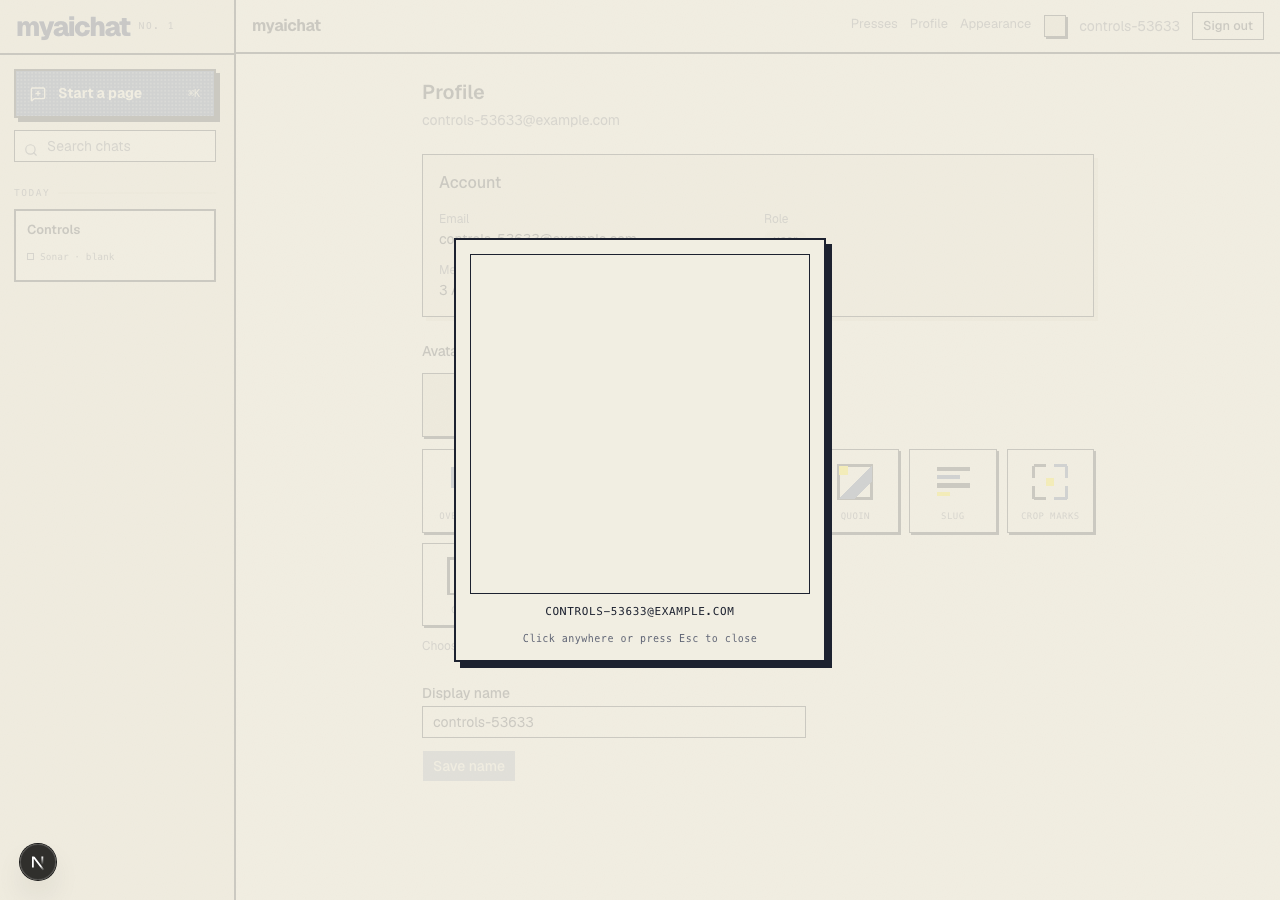
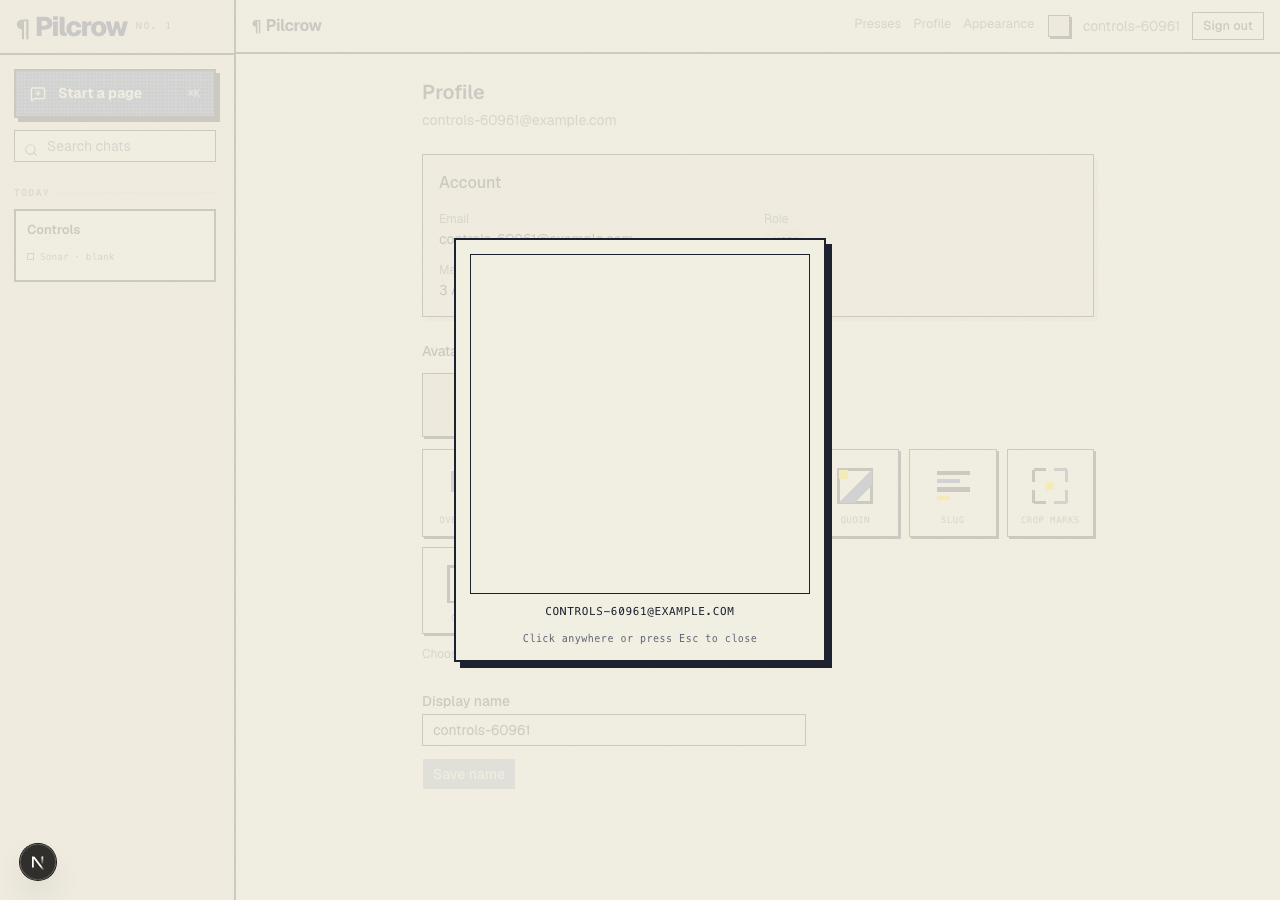
feat: rename the product to Pilcrow, user-visible only
Wordmark, masthead, sidebar lockup, login page, page titles, metadata and OG
tags, email subjects and copy, README. "No. 5" now sits under "¶ Pilcrow".

The mark and the wordmark are deliberately two things. ¶ is the MARK — the
favicon, and the logo wherever one sits — and "Pilcrow" is the WORDMARK, which
stays the clean word. The P is never replaced by the glyph: that would make the
mark and the word the same object and leave the product with no standalone
symbol. The sidebar sets them tight as one lockup; the chat rail carries the
glyph alone, because the wordmark is already set two inches away in the sidebar
and repeating it would be the name twice on one line.

The favicon is drawn as geometry rather than set as <text>: a text favicon
depends on a font the browser chrome may not have and silently falls back,
which for a mark that IS one glyph means the logo is simply wrong.

NOT touched, per the stated scope: the Railway service name, the deployed URL
and its fallback, NEXT_PUBLIC_APP_URL, the keepalive APP_URL, supabase
project_id, package name, repo paths, the smoke-test base URL, the logging test
path fixture and the security-audit email regex. Ambiguous strings are listed
in the PR rather than changed — the idle-cookie name, the weak-password
denylist entry and their two test fixtures, and CONTRIBUTING's clone URL.

## Three defects this turned up, none of them the rename

- The ¶ was coloured `--accent-alt`, which is the second ink as a FILL. It
[…]

diff --git a/app/press.css b/app/press.css
@@ -130,6 +130,81 @@ aside {
   white-space: nowrap;
 }
 
+/* ── the lockup ──────────────────────────────────────────────────────────────
+   The mark and the wordmark are two different things and the distinction is
+   the whole identity: ¶ is the MARK — it stands alone on the favicon and
+   wherever a logo sits — and "Pilcrow" is the WORDMARK, which stays the clean
+   word. The P is never replaced by the glyph; that would make the mark and the
+   word the same object and leave the product with no standalone symbol.
+
+   Set tight (0.28em) so the pair reads as one unit rather than as a bullet in
+   front of a heading. The glyph is `aria-hidden` at every call site — spoken,
+   it is the name said twice. */
+[data-press='lockup'] {
+  display: inline-flex;
+  align-items: baseline;
+  gap: 0.28em;
+  min-width: 0;
+  text-decoration: none;
+}
+/* In the app header the lockup is body-sized; in the press masthead it takes
+   the wordmark's size. Declared on the lockup so the mark always tracks the
+   word beside it rather than being set twice. */
+[data-press='masthead'] [data-press='mark'] {
+  font-size: 24px;
+}
+[data-press='mark'] {
+  font-family: var(--press-mono);
+  font-weight: 700;
+  line-height: 1;
+  /*
+   * `--display`, for the same reason as the rail mark — and worth stating that
+   * NO test caught this one. It is `aria-hidden`, so the contrast checker skips
+   * it as decorative, and it would have shipped as a near-invisible yellow
+   * glyph in Riso while every suite stayed green.
+   */
+  color: var(--display, var(--foreground));
+  /* Optical, not metric: the pilcrow's bowl sits high in the em box, so
+     matching the wordmark's cap height means nudging it down a hair. */
+  transform: translateY(0.04em);
+}
+
+/* The mark standing alone in the chat rail, where there is no wordmark. Sized
+   to the folio beside it and set in the second ink, so it reads as the logo
+   rather than as punctuation that wandered into the navigation. */
+[data-press='rail-mark'] {
+  font-family: var(--press-mono);
+  font-weight: 700;
+  /*
+   * 19px, and bold, so this is LARGE TEXT under WCAG 1.4.3 (>=18.66px at
+   * weight 700) and answers to 3:1 rather than 4.5:1 — which is the bar
+   * `--display` is held to.
+   *
+   * At 17px it needed 4.5:1 and measured 1.08:1 in Riso. That was my mistake
+   * and the design system had already named it: `--accent-alt` is the second
+   * ink as a FILL, `--display` is the second ink as TYPE, and the comment on
+   * the token says in as many words that "a colour that works as a filled chip
+   * is often unusable as text on the paper — Riso's yellow pill is the obvious
+   * case". I used the fill role for a glyph.
+   */
+  font-size: 19px;
+  line-height: 1;
+  color: var(--display, var(--foreground));
+  text-decoration: none;
+  flex-shrink: 0;
+  /* 24px minimum: it is a link, and WCAG 2.5.8 does not care that it is small.
+     The same oversight shipped a 22x22 portrait button to production. */
+  min-width: 24px;
+  min-height: 24px;
+  display: inline-flex;
+  align-items: center;
+  justify-content: center;
+}
+[data-press='rail-mark']:focus-visible {
+  outline: 2px solid var(--ring);
+  outline-offset: 2px;
+}
+
 /* The registration moment: a second plate that slides into alignment, the way
    a two-colour print does when the paper is fed slightly off. It runs once, on
    load, and is the only animation this theme adds. */

diff --git a/emails/templates.tsx b/emails/templates.tsx
@@ -79,7 +79,7 @@ function Shell({ preview, heading, children }: ShellProps) {
             className="email-text"
             style={{ color: TEXT, fontSize: '18px', fontWeight: 700, margin: '0 0 24px' }}
           >
-            myaichat
+            Pilcrow
           </Text>
 
           <Heading
@@ -138,9 +138,9 @@ function FallbackLink({ href }: { href: string }) {
 
 export function WelcomeEmail({ confirmUrl }: { confirmUrl: string }) {
   return (
-    <Shell preview="Confirm your myaichat account" heading="Confirm your email">
+    <Shell preview="Confirm your Pilcrow account" heading="Confirm your email">
       <Text className="email-text" style={{ color: TEXT, fontSize: '14px', margin: 0 }}>
-        Welcome to myaichat. Confirm your address and you can start chatting.
+        Welcome to Pilcrow. Confirm your address and you can start chatting.
       </Text>
       <ActionButton href={confirmUrl} label="Confirm email" />
       <FallbackLink href={confirmUrl} />
@@ -150,7 +150,7 @@ export function WelcomeEmail({ confirmUrl }: { confirmUrl: string }) {
 
 export function PasswordResetEmail({ resetUrl }: { resetUrl: string }) {
   return (
-    <Shell preview="Reset your myaichat password" heading="Reset your password">
+    <Shell preview="Reset your Pilcrow password" heading="Reset your password">
       <Text className="email-text" style={{ color: TEXT, fontSize: '14px', margin: 0 }}>
         Use the button below to choose a new password. The link expires in one hour.
       </Text>
@@ -162,7 +162,7 @@ export function PasswordResetEmail({ resetUrl }: { resetUrl: string }) {
 
 export function MagicLinkEmail({ magicUrl }: { magicUrl: string }) {
   return (
-    <Shell preview="Your myaichat sign-in link" heading="Sign in to myaichat">
+    <Shell preview="Your Pilcrow sign-in link" heading="Sign in to Pilcrow">
       <Text className="email-text" style={{ color: TEXT, fontSize: '14px', margin: 0 }}>
         Click below to sign in. The link works once and expires shortly.
       </Text>
@@ -223,7 +223,7 @@ export function NewLoginEmail({
   userAgent: string;
 }) {
   return (
-    <Shell preview="New sign-in to your myaichat admin account" heading="New sign-in">
+    <Shell preview="New sign-in to your Pilcrow admin account" heading="New sign-in">
       <Text className="email-text" style={{ color: TEXT, fontSize: '14px', margin: '0 0 12px' }}>
         Your <strong>administrator</strong> account was used to sign in from a device we have not
         seen before.

diff --git a/scripts/verify-costs.ts b/scripts/verify-costs.ts
@@ -351,6 +351,48 @@ async function main() {
       // older answer to be about.
       await turn(owner.cookie, shown!.id, 'Reply with exactly: AGAIN');
 
+      /**
+       * Wait for the PRICES, not for the streams.
+       *
+       * `turn()` returns when the response body ends, but the cost is written
+       * after that — the assistant message is inserted, then its `usage_logs`
+       * row. Loading the page in between shows an answer with no price and so
+       * no comparison toggle, and the check below reports "1 toggle(s)" as
+       * though the feature were broken.
+       *
+       * It passed on a quiet machine and failed inside the full suite, which is
+       * the signature of a race rather than a defect. Polling stored state is
+       * the fix; a longer sleep would only move the failure.
+       */
+      /*
+       * Two queries rather than a `usage_logs(id)` embed: that relationship is
+       * not declared in types.ts, and declaring one purely to let a test phrase
+       * a join more tersely is the wrong direction — the types file describes
+       * the embeds the app uses.
+       */
+      const priced = async () => {
+        const { data: answers } = await admin
+          .from('messages')
+          .select('id')
+          .eq('conversation_id', shown!.id)
+          .eq('role', 'assistant');
+        const ids = (answers ?? []).map((m) => m.id);
+        if (ids.length === 0) return 0;
+        const { data: rows } = await admin
+          .from('usage_logs')
+          .select('message_id')
+          .in('message_id', ids);
+        return new Set((rows ?? []).map((r) => r.message_id)).size;
+      };
+      for (let i = 0; i < 40 && (await priced()) < 2; i++) {
+        await new Promise((r) => setTimeout(r, 500));
+      }
+      check(
+        'both answers were priced before the page was read',
+        (await priced()) >= 2,
+        `${await priced()} priced`,
+      );
+
       await page.goto(`${BASE_URL}/c/${shown!.id}`, { waitUntil: 'networkidle' });
 
       const stamp = page.locator('[data-press="answer-cost"]').first();

diff --git a/lib/email/send.ts b/lib/email/send.ts
@@ -67,17 +67,17 @@ async function deliver(to: string, subject: string, html: string): Promise<Email
 
 export async function sendWelcomeEmail(to: string, confirmUrl: string): Promise<EmailResult> {
   const html = await render(WelcomeEmail({ confirmUrl }));
-  return deliver(to, 'Confirm your myaichat account', html);
+  return deliver(to, 'Confirm your Pilcrow account', html);
 }
 
 export async function sendPasswordResetEmail(to: string, resetUrl: string): Promise<EmailResult> {
   const html = await render(PasswordResetEmail({ resetUrl }));
-  return deliver(to, 'Reset your myaichat password', html);
+  return deliver(to, 'Reset your Pilcrow password', html);
 }
 
 export async function sendMagicLinkEmail(to: string, magicUrl: string): Promise<EmailResult> {
   const html = await render(MagicLinkEmail({ magicUrl }));
-  return deliver(to, 'Your myaichat sign-in link', html);
+  return deliver(to, 'Your Pilcrow sign-in link', html);
 }
 
 export async function sendNewLoginEmail(
@@ -85,7 +85,7 @@ export async function sendNewLoginEmail(
   context: { when: string; ip: string; userAgent: string },
 ): Promise<EmailResult> {
   const html = await render(NewLoginEmail(context));
-  return deliver(to, 'New sign-in to your myaichat admin account', html);
+  return deliver(to, 'New sign-in to your Pilcrow admin account', html);
 }
 
 export async function sendAdminAlertEmail(
@@ -96,5 +96,5 @@ export async function sendAdminAlertEmail(
   const html = await render(
     AdminAlertEmail({ title, detail, occurredAt: new Date().toISOString() }),
   );
-  return deliver(to, `[myaichat] ${title}`, html);
+  return deliver(to, `[Pilcrow] ${title}`, html);
 }

diff --git a/components/chat/chat-thread.tsx b/components/chat/chat-thread.tsx
@@ -1,6 +1,7 @@
 'use client';
 
 import { ArrowDown } from 'lucide-react';
+import Link from 'next/link';
 import { useRouter } from 'next/navigation';
 import { useCallback, useEffect, useRef, useState } from 'react';
 import { toast } from 'sonner';
@@ -375,6 +376,21 @@ export function ChatThread({
         {/* The mockup's rule bar leads with the folio — the page you are on —
             and sets the model ticket beside it. Without it the band is an
             empty rule with one control pushed to the far edge. */}
+        {/*
+          The MARK, alone, as the logo in this rail.
+
+          Chat pages carry no wordmark: `body:has([data-press='tabs'])` hides
+          the masthead, so before this the rail led straight into the page
+          title and the product had no presence on the screen readers spend
+          their time on. The glyph alone is the right thing here — the wordmark
+          is set in the sidebar two inches away, and repeating it would be the
+          name twice on one line. It links home for the same reason a masthead
+          does, and it is labelled rather than aria-hidden BECAUSE it is a link:
+          a bare "¶" announced to a screen reader is not a destination.
+        */}
+        <Link href="/" data-press="rail-mark" aria-label="Pilcrow — home">
+          ¶
+        </Link>
         <span data-press="folio">
           {conversations.find((c) => c.id === activeId)?.title ?? 'New page'}
         </span>

diff --git a/scripts/verify-persistence.ts b/scripts/verify-persistence.ts
@@ -152,7 +152,7 @@ async function main() {
       await page.waitForLoadState('networkidle');
     };
 
-    await clickLink('myaichat');
+    await clickLink('Pilcrow');
     await record('chat-via-click');
 
     await clickLink('Admin');
@@ -160,7 +160,7 @@ async function main() {
 
     // Also the wordmark: outside the chat there are no section tabs, so `Page`
     // does not exist to click. See the note on navigation below.
-    await clickLink('myaichat');
+    await clickLink('Pilcrow');
     await record('back-to-chat');
 
     // A full reload should agree with everything above.
@@ -180,7 +180,7 @@ async function main() {
     console.log(`      while still on settings   ${describe(previewed)}`);
     await page.screenshot({ path: `${OUT}/7-unsaved-preview.png` });
 
-    await clickLink('myaichat');
+    await clickLink('Pilcrow');
     await page.waitForTimeout(500);
     const afterLeaving = await painted(page);
     console.log(`      after navigating away     ${describe(afterLeaving)}`);
@@ -197,9 +197,9 @@ async function main() {
     const timings: { to: string; ms: number }[] = [];
     for (const [name, label] of [
       ['Admin', 'admin'],
-      ['myaichat', 'chat'],
+      ['Pilcrow', 'chat'],
       ['Appearance', 'settings'],
-      ['myaichat', 'chat'],
+      ['Pilcrow', 'chat'],
     ] as const) {
       const started = Date.now();
       await clickLink(name);

diff --git a/app/layout.tsx b/app/layout.tsx
@@ -29,22 +29,22 @@ const APP_URL = process.env.NEXT_PUBLIC_APP_URL ?? 'https://myaichat-production.
 export const metadata: Metadata = {
   metadataBase: new URL(APP_URL),
   title: {
-    default: 'myaichat',
+    default: 'Pilcrow',
     // Page-level titles fill the slot; the suffix is not repeated by hand.
-    template: '%s · myaichat',
+    template: 'Pilcrow — %s',
   },
   description: 'One chat interface for every model — streaming chat across providers.',
-  applicationName: 'myaichat',
+  applicationName: 'Pilcrow',
   openGraph: {
     type: 'website',
-    siteName: 'myaichat',
-    title: 'myaichat',
+    siteName: 'Pilcrow',
+    title: 'Pilcrow',
     description: 'One chat interface for every model — streaming chat across providers.',
     url: APP_URL,
   },
   twitter: {
     card: 'summary_large_image',
-    title: 'myaichat',
+    title: 'Pilcrow',
     description: 'One chat interface for every model — streaming chat across providers.',
   },
   // A private chat app has nothing to gain from being indexed, and conversation

diff --git a/components/chat/sidebar.tsx b/components/chat/sidebar.tsx
@@ -141,9 +141,19 @@ export function Sidebar({
             first — it reads as a duplicate only if the stylesheet that
             positions it is missing. */}
         <div data-press="masthead">
-          <div data-press="wordmark">
-            myaichat
-            <span aria-hidden="true">myaichat</span>
+          {/* "¶ Pilcrow" is one unit: the mark is the logo, the word is the
+              wordmark, and they are set tight so the pair reads as a lockup
+              rather than as a bullet in front of a heading. The glyph is
+              aria-hidden — it is the same name said twice to a screen reader
+              otherwise. */}
+          <div data-press="lockup">
+            <span data-press="mark" aria-hidden="true">
+              ¶
+            </span>
+            <div data-press="wordmark">
+              Pilcrow
+              <span aria-hidden="true">Pilcrow</span>
+            </div>
           </div>
           {issue ? (
             /**

diff --git a/app/(auth)/layout.tsx b/app/(auth)/layout.tsx
@@ -14,9 +14,14 @@ export default function AuthLayout({ children }: { children: React.ReactNode }) 
         <div data-press="gate-masthead">
           {/* Two plates, as in the sidebar: the second slides into register on
               load. `aria-hidden`, so the name is announced once. */}
-          <div data-press="wordmark">
-            myaichat
-            <span aria-hidden="true">myaichat</span>
+          <div data-press="lockup">
+            <span data-press="mark" aria-hidden="true">
+              ¶
+            </span>
+            <div data-press="wordmark">
+              Pilcrow
+              <span aria-hidden="true">Pilcrow</span>
+            </div>
           </div>
           <div data-press="issue">Multi-provider AI chat</div>
         </div>

diff --git a/app/opengraph-image.tsx b/app/opengraph-image.tsx
@@ -11,7 +11,7 @@ import { ImageResponse } from 'next/og';
  * CSS variables and custom fonts do not apply here unless explicitly loaded.
  */
 
-export const alt = 'myaichat — one chat interface, every model';
+export const alt = 'Pilcrow — one chat interface, every model';
 export const size = { width: 1200, height: 630 };
 export const contentType = 'image/png';
 
@@ -51,7 +51,7 @@ export default function OpengraphImage() {
             }}
           />
         </div>
-        <div style={{ fontSize: 64, fontWeight: 700, letterSpacing: -1.5 }}>myaichat</div>
+        <div style={{ fontSize: 64, fontWeight: 700, letterSpacing: -1.5 }}>Pilcrow</div>
       </div>
 
       <div style={{ marginTop: 48, fontSize: 44, lineHeight: 1.25, maxWidth: 900 }}>

diff --git a/app/(app)/layout.tsx b/app/(app)/layout.tsx
@@ -86,8 +86,11 @@ export default async function AppLayout({ children }: { children: React.ReactNod
           data-press="masthead-bar"
           className="border-border flex items-center justify-between border-b py-3 pr-4 pl-14 md:pl-4"
         >
-          <Link href="/" className="font-semibold">
-            myaichat
+          <Link href="/" className="font-semibold" data-press="lockup">
+            <span data-press="mark" aria-hidden="true">
+              ¶
+            </span>
+            Pilcrow
           </Link>
 
           {/* Wraps rather than overflowing: at 360px the four links plus the

diff --git a/README.md b/README.md
@@ -1,4 +1,4 @@
-# myaichat
+# Pilcrow
 
 A production-grade, multi-provider AI chat platform. Bring your own OpenAI and
 Anthropic keys, and get streaming chat, an admin panel to manage providers and
